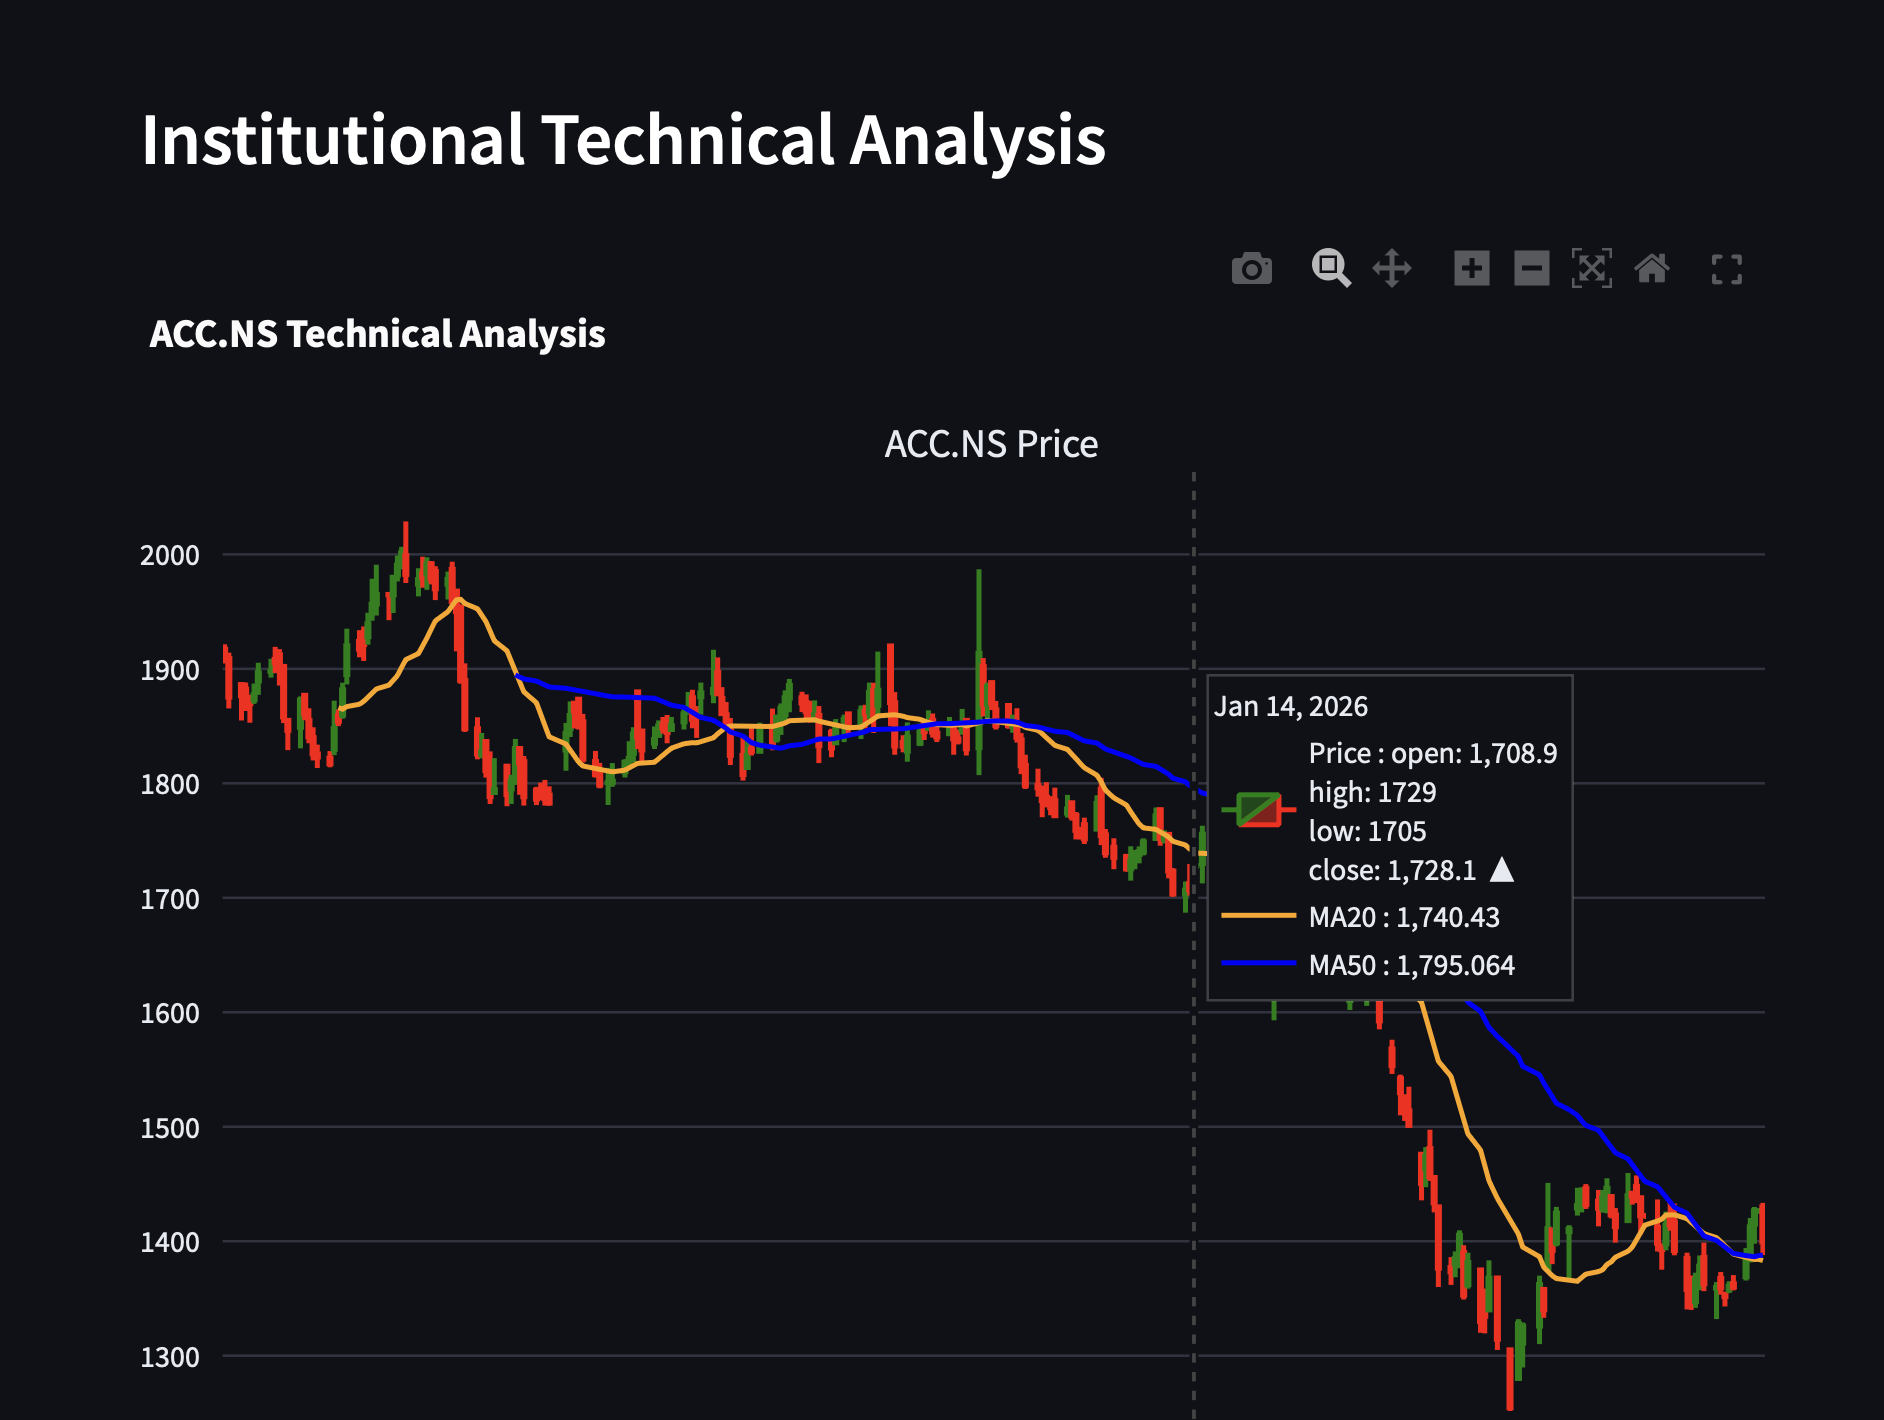
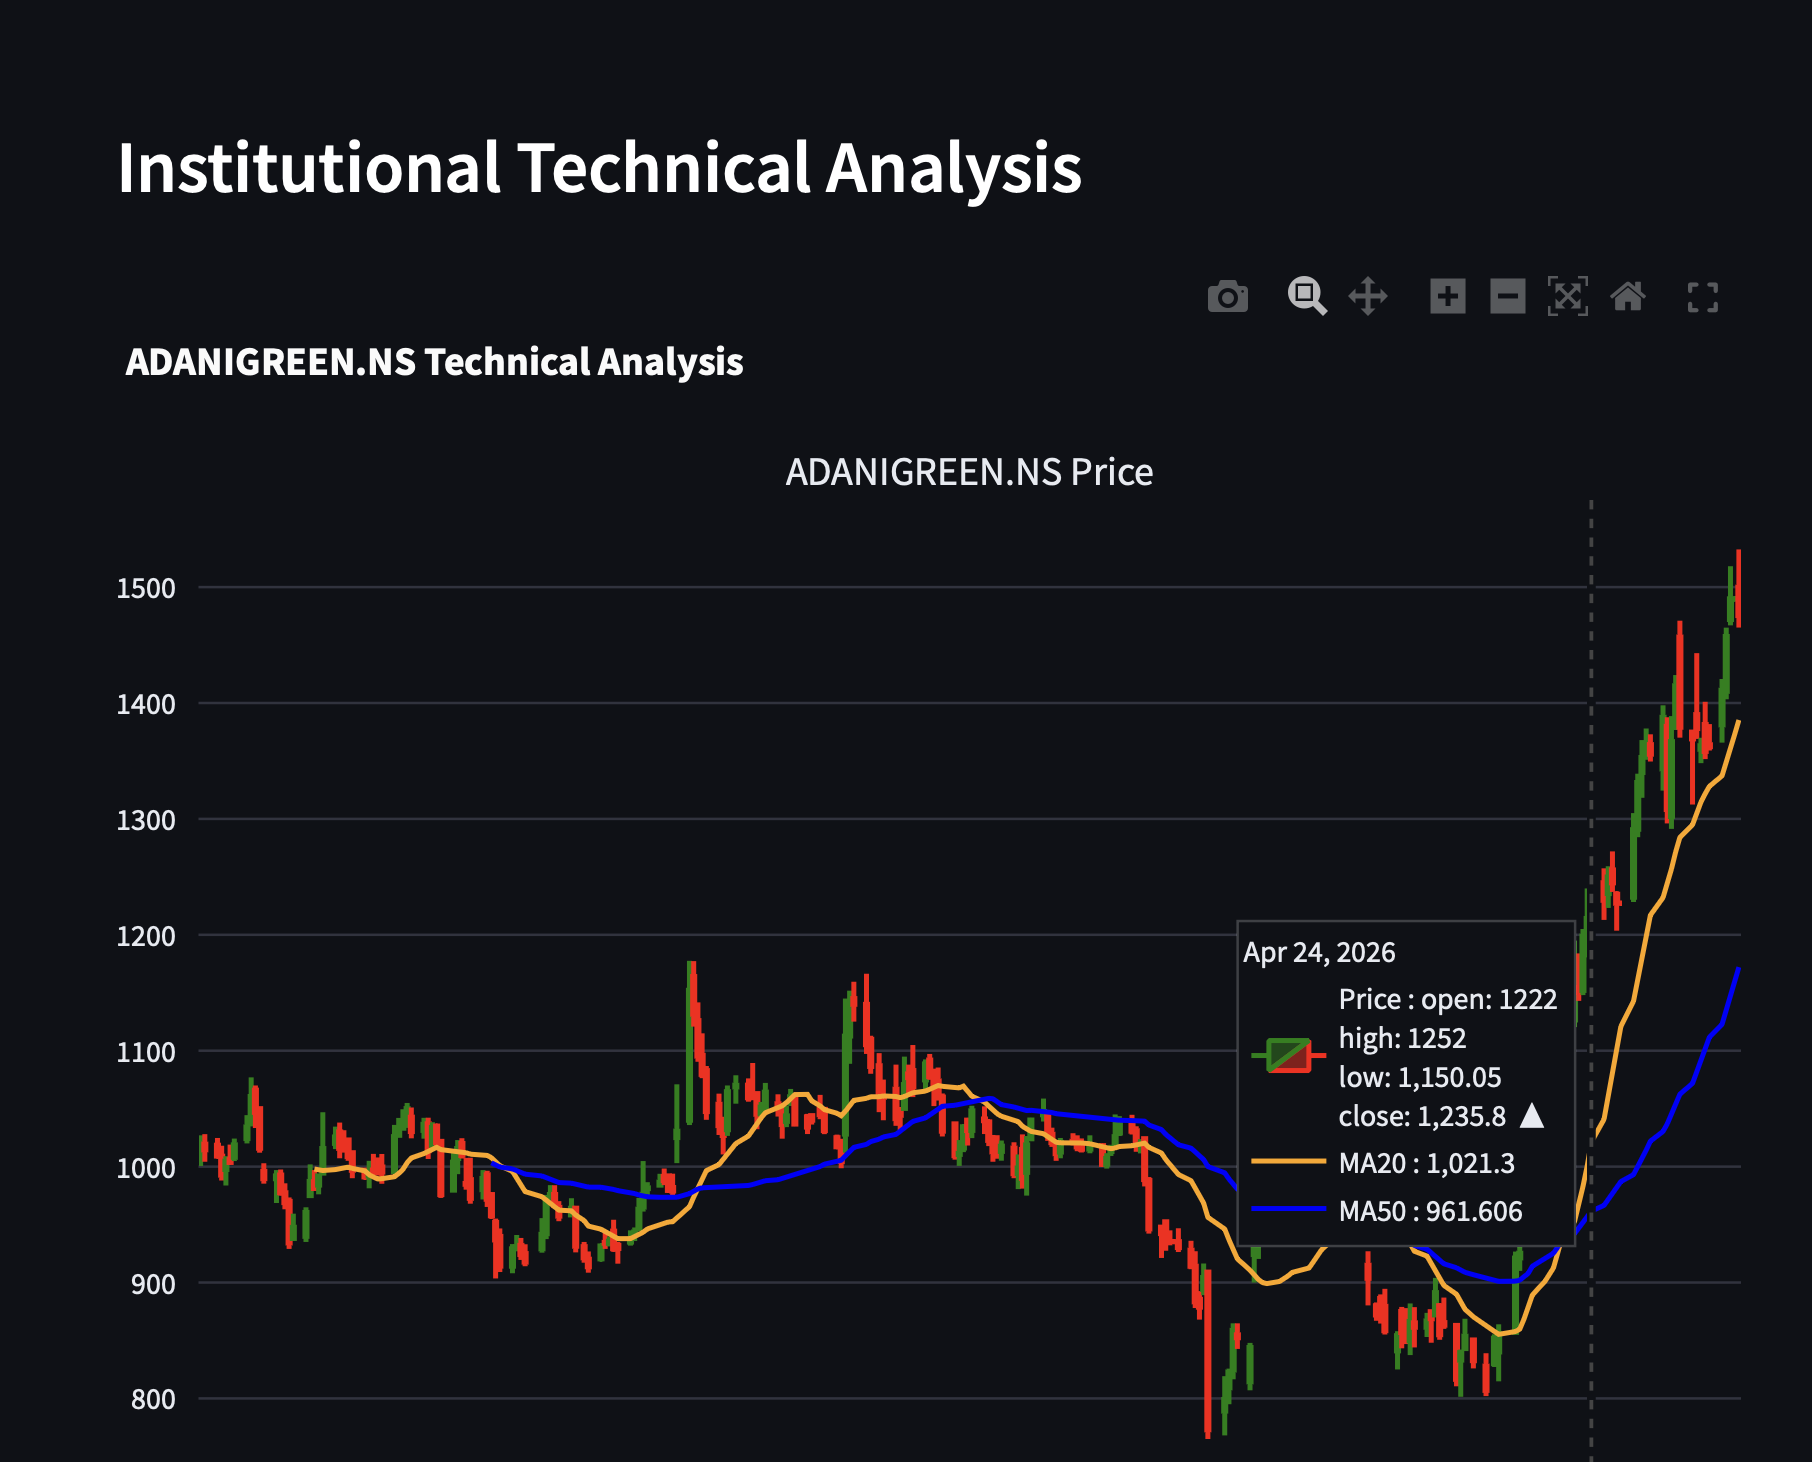
Updated dashboard, screenshots and README

diff --git a/app/dashboard.py b/app/dashboard.py
@@ -66,7 +66,7 @@ st.set_page_config(
 
     page_title="Terminal",
 
-    page_icon="📈",
+    page_icon="",
 
     layout="wide",
 
@@ -140,7 +140,7 @@ stocks_df = pd.read_csv(
 # =========================================
 
 st.sidebar.title(
-    "📊 Bloomberg Search"
+    "Search Stock"
 )
 
 
@@ -250,7 +250,7 @@ def load_analysis(stock):
 # RUN ANALYSIS BUTTON
 # =========================================
 
-if st.button("Run Institutional Analysis 🚀"):
+if st.button("Run Institutional Analysis"):
 
 
     with st.spinner("Running AI Equity Research..."):
@@ -262,7 +262,7 @@ if st.button("Run Institutional Analysis 🚀"):
     # LIVE HEADER
     # =========================================
 
-    st.subheader(f"📌 {search}")
+    st.subheader(f" {search}")
 
 
     top1,top2,top3 = st.columns(3)
@@ -529,13 +529,13 @@ to
     # SIGNAL CLASSIFICATION
     # =========================================
 
-    if tech["signal"] == "BUY 📈":
+    if tech["signal"] == "BUY":
 
         bullish_signals.append(
             "Price structure indicates bullish momentum"
         )
 
-    elif tech["signal"] == "SELL 📉":
+    elif tech["signal"] == "SELL":
 
         bearish_signals.append(
             "Technical trend remains weak"
@@ -548,7 +548,7 @@ to
         )
 
 
-    if tech["macd"] == "Bullish 📈":
+    if tech["macd"] == "Bullish":
 
         bullish_signals.append(
             "MACD crossover supports upward trend"
@@ -580,7 +580,7 @@ to
         )
 
 
-    if tech["volume"] == "Increasing 📈":
+    if tech["volume"] == "Increasing":
 
         bullish_signals.append(
             "Institutional participation increasing"
@@ -632,7 +632,7 @@ to
     # =========================================
 
     st.subheader(
-        "📌 Institutional AI Summary"
+        "Institutional AI Summary"
     )
 
 
@@ -662,7 +662,7 @@ to
     # =========================================
 
     st.subheader(
-        "📰 Institutional News Sentiment"
+        "Institutional News Sentiment"
     )
 
 
@@ -781,7 +781,7 @@ to
     # # =========================================
 
     # st.subheader(
-    #     "📈 Equity Curve Analysis"
+    #     "Equity Curve Analysis"
     # )
 
 

diff --git a/README.md b/README.md
@@ -1,10 +1,11 @@
 # AI Equity Research Agent
 ## Quantitative Equity Research Platform for Indian Markets
+
 ## Dashboard Preview
 
-### Bloomberg-Style Search Terminal
+### Equity Research Terminal
 
-![Search Terminal](Screenshots/Search%20Terminal.png)
+![Terminal](Screenshots/Terminal.png)
 
 ---
 
@@ -14,9 +15,9 @@
 
 ---
 
-### Technical Indicators & Market Signals
+### RSI & MACD Indicators
 
-![Technical Indicator](Screenshots/Technical%20Indicator.png)
+![RSI and MACD](Screenshots/RSI%20and%20MACD%20.png)
 
 ---
 
@@ -26,15 +27,15 @@
 
 ---
 
-###  Institutional Signal Engine
+### Institutional Signal Engine
 
-![Institutional Signal](Screenshots/Institutional%20Signal.png)
+![Institutional Signal Engine](Screenshots/Institutional%20Signal%20Engine.png)
 
 ---
 
-### AI Summary & News Analysis
+### AI Summary & News Sentiment
 
-![AI Summary](Screenshots/AI%20Summary%20and%20News%20Analysis.png)
+![AI Summary and News Sentiment](Screenshots/AI%20Summary%20and%20News%20Sentiment.png)
  
 
 End-to-end quantitative equity research platform combining technical analysis, fundamental screening, multi-factor ranking, portfolio construction, and historical backtesting — built for data-driven investment decisions on Indian equities (NSE/BSE).